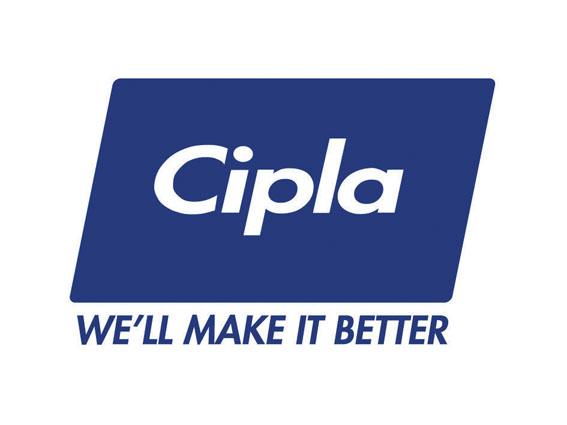
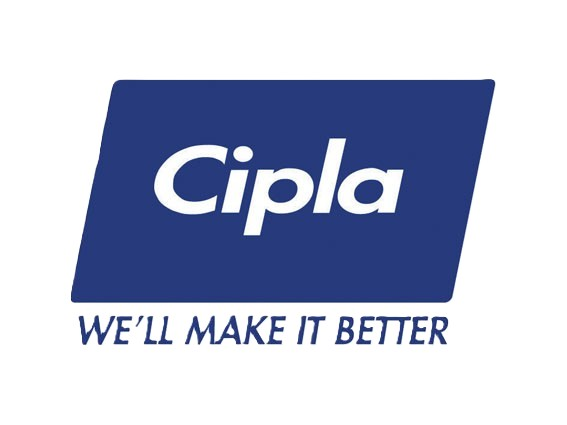
updated home page

diff --git a/src/pages/home.jsx b/src/pages/home.jsx
@@ -1,60 +1,57 @@
 import Layout from "../componets/layout/layout";
 import "../pages/pages_css/home.css"; // Correct relative path
 import drreddy from "../assets/drreddy.png";
-import cipla from "../assets/cipla.jpg";
+import cipla from "../assets/ciplas.png";
 import mankind from "../assets/mankind.png";
 import himalaya from "../assets/himalaya.png";
-import { Link } from "react-router-dom";
 const Home_p = () => {
   return (
     <>
       <Layout>
         <div className="home-main-page-div">
-          <div className="appinment-button-home" id="appoinment-text">
-            <Link to="/appoinment" className="appinment-button-homes">
-              <span>Make Appointment</span>
-            </Link>
-          </div>
           {/* change this admin login diraction */}
-          <div className="appinment-button-home" id="appoinment-text">
+          {/* <div className="appinment-button-home" id="appoinment-text">
             <Link to="/admin_login_page" className="appinment-button-homes">
               <span>admin login page</span>
             </Link>
-          </div>
+          </div> */}
 
-          <div className="footer">
-            <h2 className="titlecolor">Partners who support us</h2>
-            <div class="divider"></div>
-
+          <div className="home-page-footer ">
+            <h2 className="titlecolor">
+              Partners who support us</h2>
             <p id="supportline">
               Lets know moreel necessitatibus dolor asperiores illum possimus
               sint <br></br>voluptates incidunt molestias nostrum laudantium.
               Maiores porro <br></br> cumque quaerat.
             </p>
-            <div class="image-container">
+            <div class="home-image-container">
               <img
                 src={cipla}
                 alt=""
                 style={{ width: "190px", height: "125px" }}
                 id="first"
+                className="home-image-logo"
               ></img>
               <img
                 src={drreddy}
                 alt=""
                 style={{ width: "190px", height: "125px" }}
                 id="first"
+                className="home-image-logo"
               ></img>
               <img
                 src={mankind}
                 alt=""
                 style={{ width: "190px", height: "125px" }}
                 id="first"
+                className="home-image-logo"
               ></img>
               <img
                 src={himalaya}
                 alt=""
                 style={{ width: "190px", height: "125px" }}
                 id="first"
+                className="home-image-logo"
               ></img>
             </div>
           </div>

diff --git a/src/pages/pages_css/home.css b/src/pages/pages_css/home.css
@@ -2,7 +2,11 @@
 
 .home-main-page-div {
   font-family: "Open Sans", sans-serif;
-   
+   background-image: url("../../assets/doctor-group.jpg");
+   display: flex;
+   background-position: cover;
+   background-size: cover;
+   min-height: 100vh;
 }
 
 
@@ -34,7 +38,41 @@
   margin-top: 20px;
   border-radius: 5px;
 }
+.home-page-footer{
+  display: flexbox;
+  margin: auto;
+}
+.home-image-container{
+  display: flex;
+}
+.titlecolor{
+color: rgb(82, 146, 125);
+}
+#supportline{
+color: rgb(0, 0, 0);
+margin-top: 20px;
+text-align: center;
+font-size: medium;
+}
 
+
+.titlecolor {
+  color: black;
+  font-size: 30px;
+  font-weight: bolder;
+  text-decoration: underline;
+}
+.home-page-footer{
+  margin-top:100vh;
+  text-align: center;
+
+}
+
+
+
+#first {
+  padding: 40px;
+}
 @media (max-width: 800px) {
   .whole {
     width: 90%;
@@ -42,37 +80,4 @@
     margin: 10px auto;
     flex-direction: column;
   }
-}
-
-.titlecolor {
-  margin-top: 500px;
-  height: 80px;
-  text-align: center;
-  color: black;
-}
-.titlecolor h2 {
-  height: 50px;
-  font-size: 50px;
-  padding-top: 1px;
-  padding-right: 2px;
-  padding-bottom: 13px;
-  padding-left: 4px;
-  font-weight: bolder;
-  text-decoration: underline;
-}
-.divider {
-  margin-top: 20px;
-
-  margin-top: 10px;
-}
-#supportline {
-  text-align: center;
-  font-size: small;
-}
-.image-container {
-  margin-left: 250px;
-  margin-top: 100px;
-}
-#first {
-  padding: 25px;
 }

diff --git a/src/componets/navigation/nav.jsx b/src/componets/navigation/nav.jsx
@@ -61,14 +61,15 @@ const Header_n = () => {
               <span className="link-span-c">Department</span>
             </Link>
             <Link
-              to="/doctor_availabilty"
+              to="/appoinment"
               className={`links-nav ${
-                location.pathname === "/doctor_availabilty" ? "active-link" : ""
+                location.pathname === "/appoinment" ? "active-link" : ""
               }`}
               id="h-child"
             >
-              <span className="link-span-c">Doctor Availabilty</span>
+              <span className="link-span-c">Make Appointment</span>
             </Link>
+            
             <Link
               to="/contact"
               className={`links-nav ${

diff --git a/src/componets/footer/footer.css b/src/componets/footer/footer.css
@@ -10,6 +10,7 @@
     margin: auto;
     justify-items: center;
     align-items: center;
+    background-color: rgb(239, 248, 255);
 }
 .footer-section {
     flex: 1;
